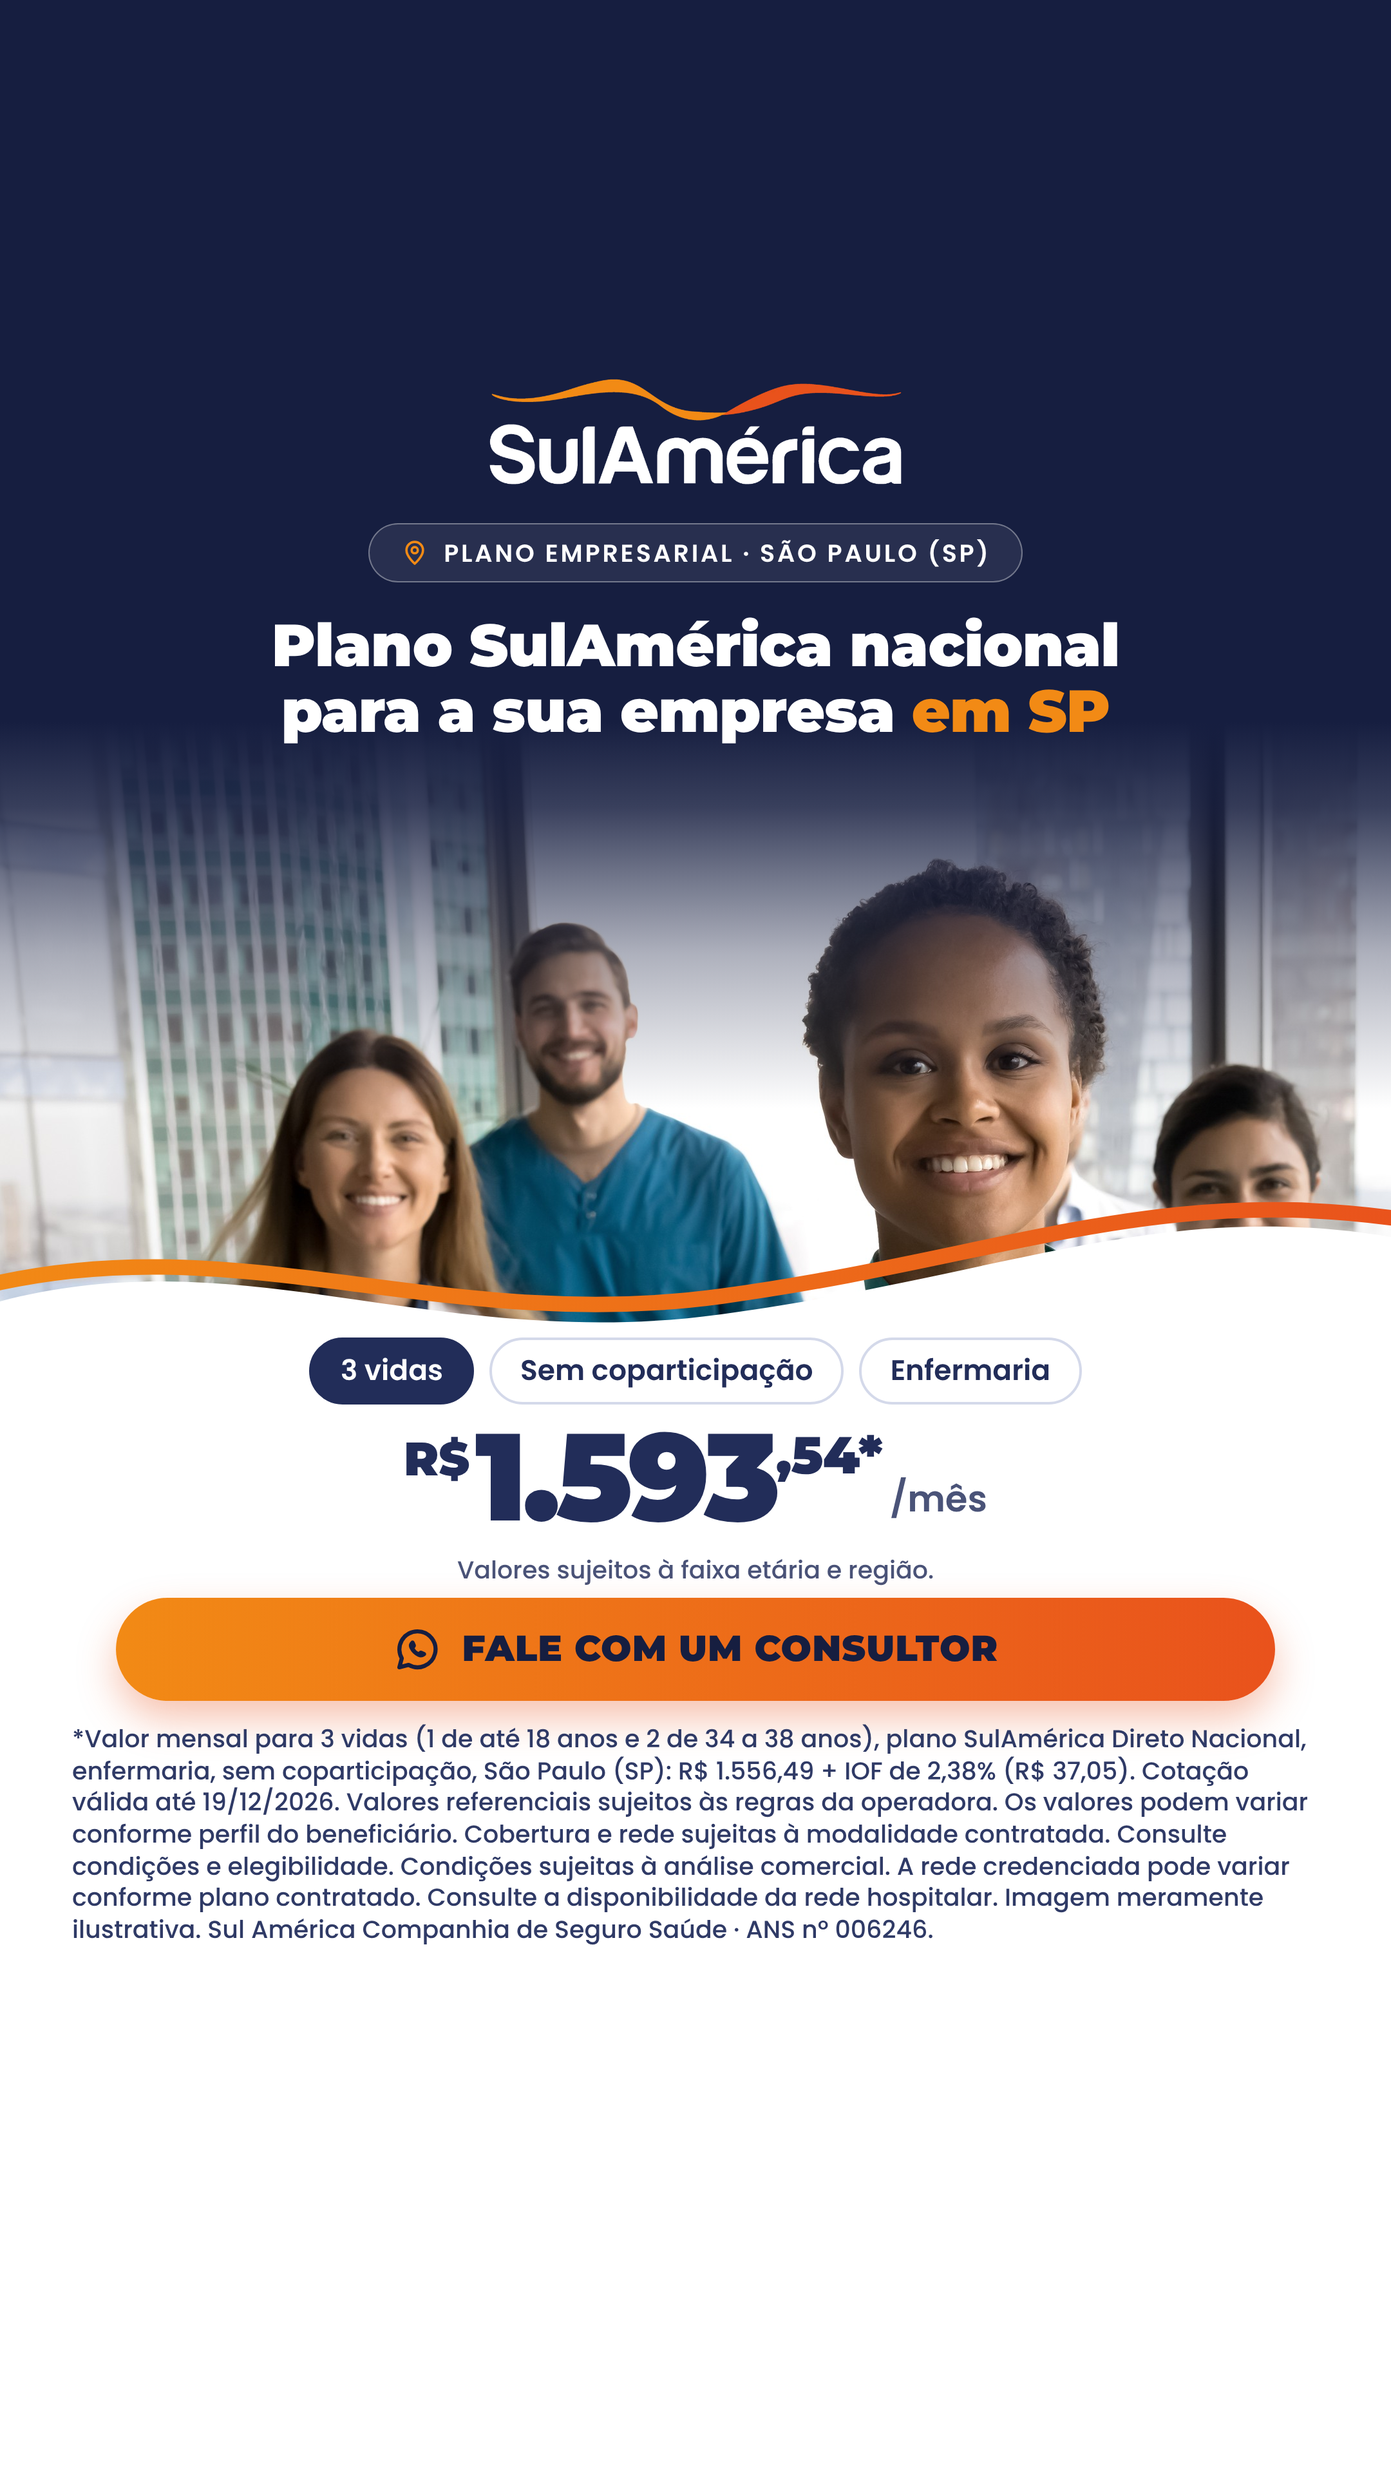
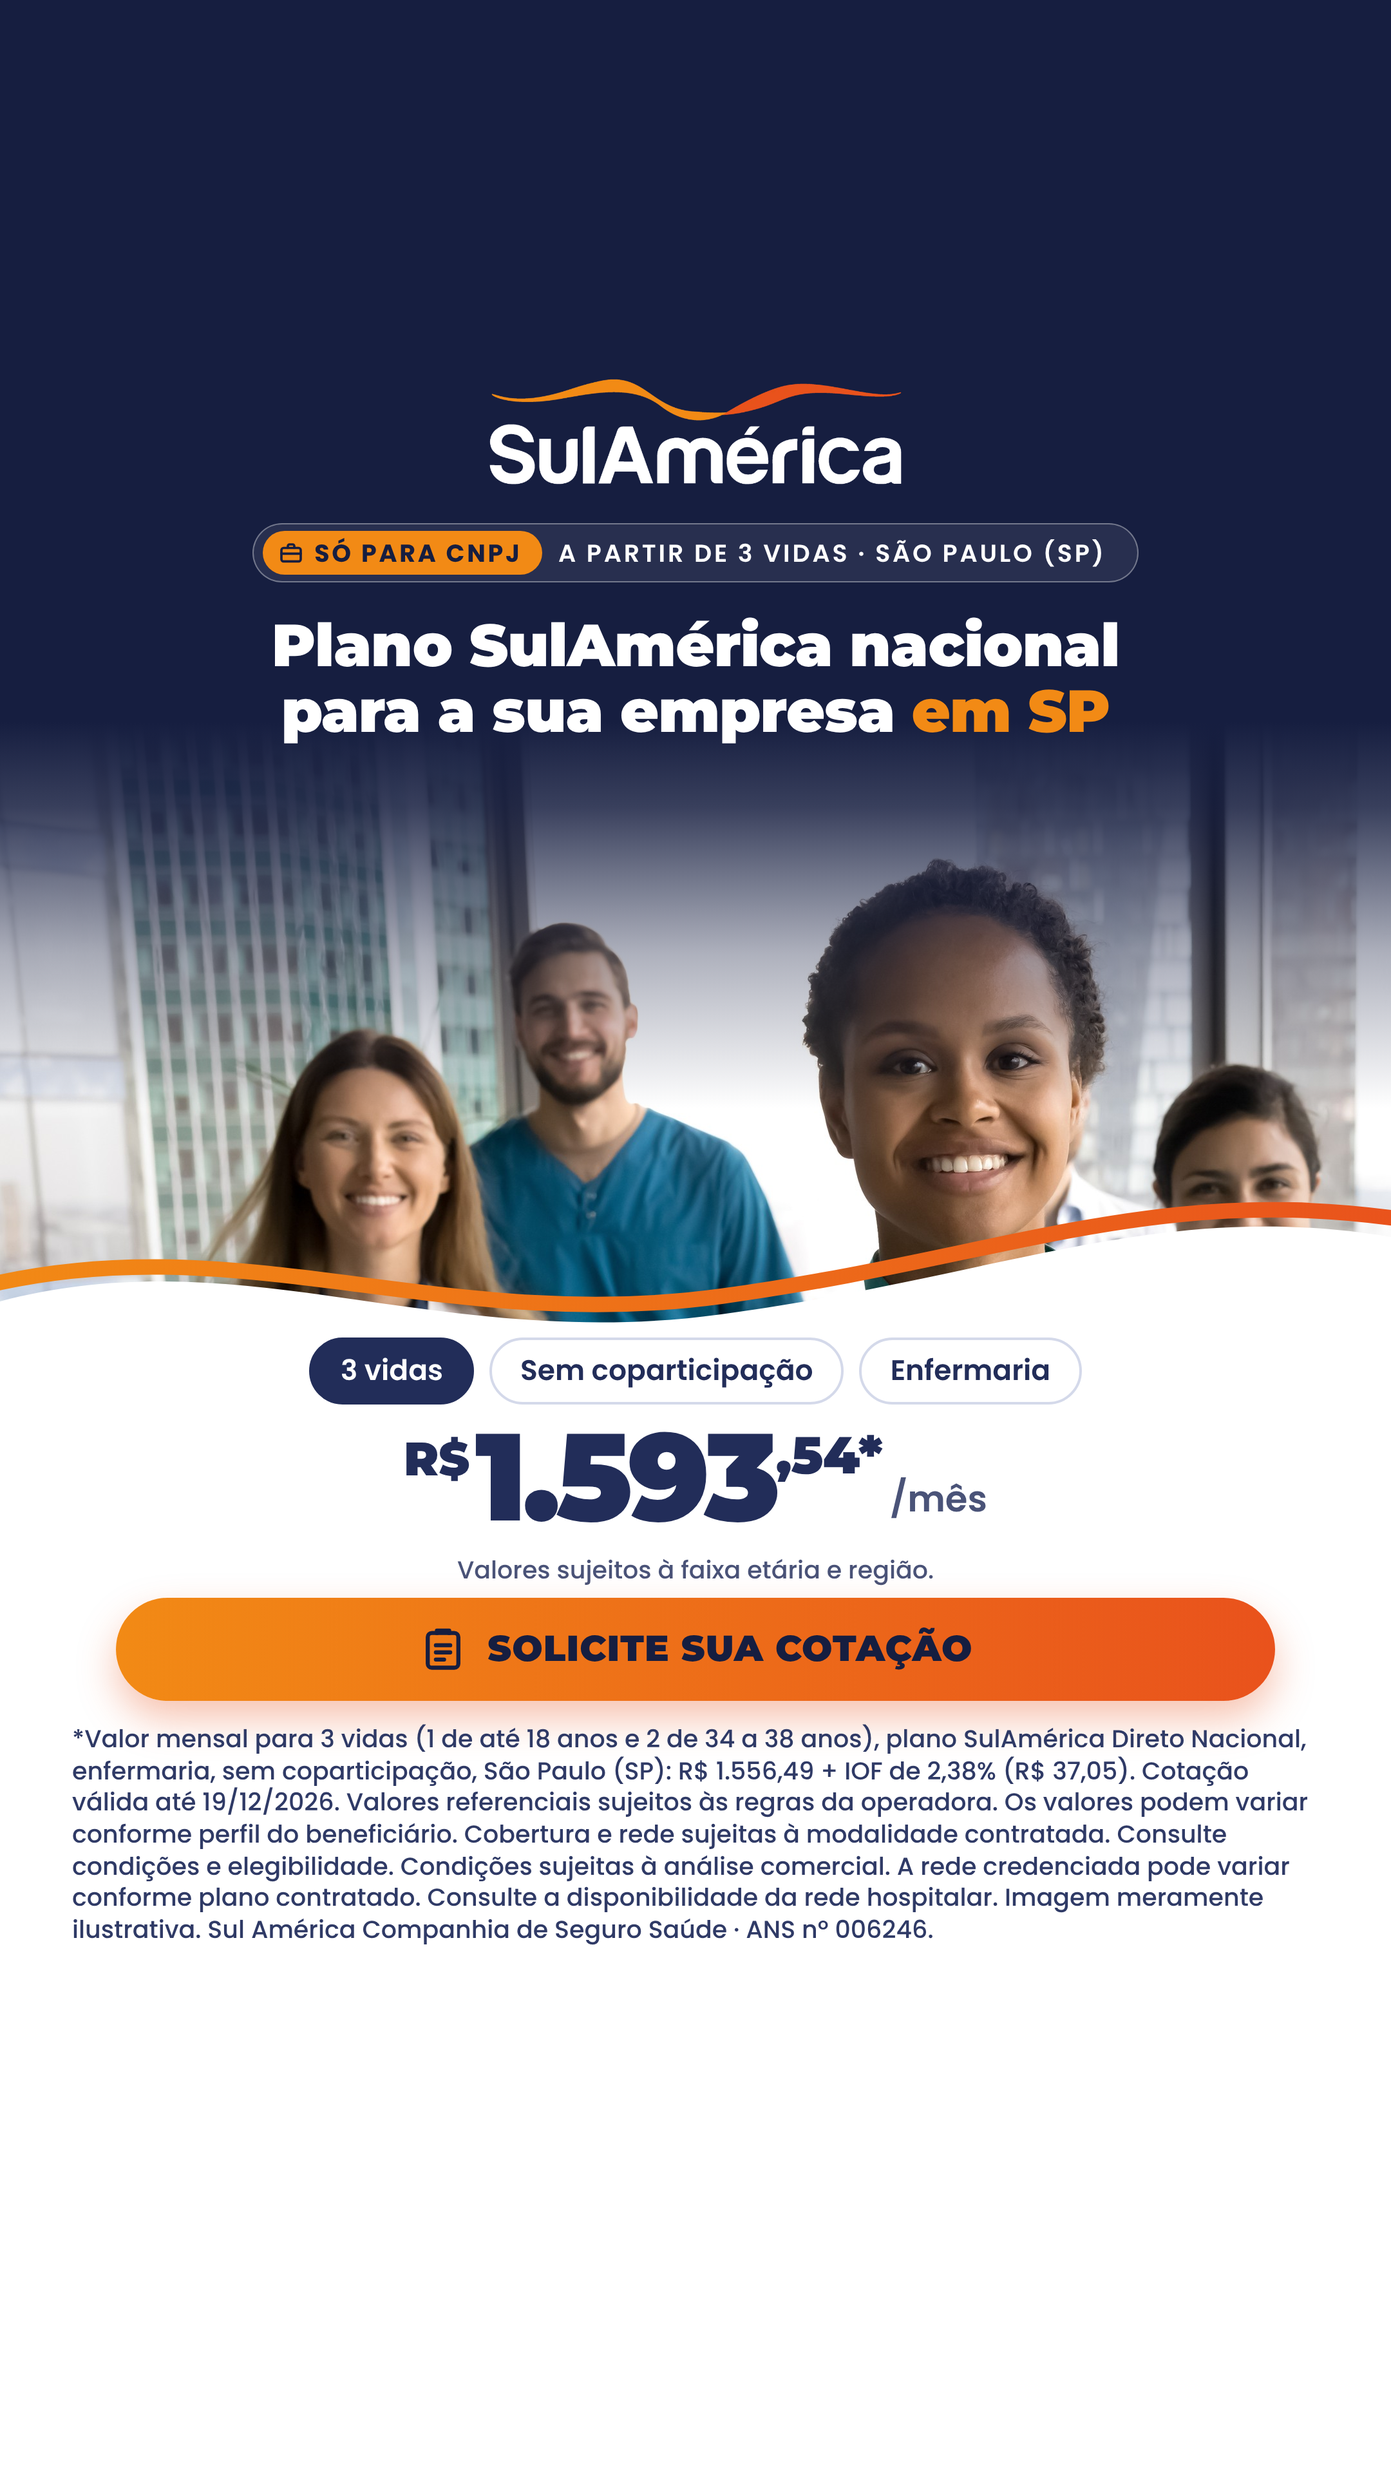
Cotações 3 vidas SP: requisito do formulário (CNPJ + 3 vidas) e botão de cotação
Os anúncios de plano de saúde vão para formulário com trava (só CNPJ, a partir de 3 vidas):
- etiqueta do topo com selo "Só para CNPJ" + "a partir de 3 vidas · São Paulo (SP)"
- botão "Solicite sua cotação" com ícone de formulário (sai o "fale com um consultor")
- Figma atualizado nas 9 peças; regra registrada no CLAUDE.md para os próximos criativos

Claude-Session: https://claude.ai/code/session_01GQmGjzcDcCg5ZjPiHt6SBp

diff --git a/criativos/cotacoes-3-vidas-sp/pecas/a1-amil-recibo.html b/criativos/cotacoes-3-vidas-sp/pecas/a1-amil-recibo.html
@@ -12,7 +12,6 @@
   .logo { position: absolute; left: 425px; top: 300px; width: 230px; color: #fff; }
   .chip { position: absolute; left: 0; right: 0; margin: 0 auto; width: max-content; top: 404px; height: 46px; padding: 0 24px;
     font-size: 19px; color: #fff; background: rgba(255,255,255,.12); border: 1.5px solid rgba(255,255,255,.35); }
-  .chip .ponto { background: var(--verde); }
   .h1 { position: absolute; left: 0; right: 0; top: 474px; text-align: center; font-family: 'Gabarito'; font-weight: 900;
     font-size: 66px; line-height: 1; letter-spacing: -.01em; }
   .h2 { position: absolute; left: 0; right: 0; top: 548px; text-align: center; font-family: 'Gabarito'; font-weight: 700;
@@ -47,7 +46,7 @@
   </svg>
 
   <div class="logo" data-marca="amil"></div>
-  <p class="chip"><i class="ponto"></i>Plano empresarial · São Paulo (SP)</p>
+  <p class="chip"><span class="req"><span data-icone="maleta"></span>Só para CNPJ</span>A partir de 3 vidas · São Paulo (SP)</p>
   <h1 class="h1">Plano Amil para 3 vidas</h1>
   <p class="h2">com a 1ª e a 2ª mensalidade pela metade</p>
 
@@ -73,7 +72,7 @@
     </div>
   </div>
 
-  <div class="cta"><span data-icone="conversa"></span>Fale com um consultor</div>
+  <div class="cta"><span data-icone="formulario"></span>Solicite sua cotação</div>
   <p class="legal"></p>
 
   <script type="module">

diff --git a/criativos/cotacoes-3-vidas-sp/pecas/base.js b/criativos/cotacoes-3-vidas-sp/pecas/base.js
@@ -51,6 +51,8 @@ export const COTACAO = {
 
 const traco = 'fill="none" stroke="currentColor" stroke-linecap="round" stroke-linejoin="round"';
 export const ICONES = {
+  formulario: `<svg viewBox="0 0 24 24" ${traco} stroke-width="2"><rect x="4.5" y="4" width="15" height="17" rx="2"/><path d="M9 4V2.8h6V4"/><path d="M8.5 10h7M8.5 13.5h7M8.5 17h4"/></svg>`,
+  maleta: `<svg viewBox="0 0 24 24" ${traco} stroke-width="2.2"><rect x="3" y="7.5" width="18" height="12.5" rx="2"/><path d="M9 7.5V5.8A1.6 1.6 0 0 1 10.6 4.2h2.8A1.6 1.6 0 0 1 15 5.8v1.7M3 12.8h18"/></svg>`,
   conversa: `<svg viewBox="0 0 24 24" ${traco} stroke-width="2"><path d="M12 3.2a8.8 8.8 0 0 0-7.6 13.2L3.2 20.8l4.5-1.2A8.8 8.8 0 1 0 12 3.2z"/><path d="M9.1 8.6c.3-.6.8-.6 1.1 0l.6 1.4c.1.3 0 .6-.2.8l-.5.5c.5 1.2 1.4 2.1 2.6 2.6l.5-.5c.2-.2.5-.3.8-.2l1.4.6c.6.3.6.8 0 1.1-.9.6-1.9.7-3 .2a8 8 0 0 1-3.7-3.7c-.5-1.1-.4-2.1.4-2.8z" fill="currentColor" stroke-width="1"/></svg>`,
   check: `<svg viewBox="0 0 24 24" ${traco} stroke-width="3"><path d="M5 12.5l4.5 4.5L19 7.5"/></svg>`,
   hospital: `<svg viewBox="0 0 24 24" ${traco} stroke-width="1.9"><path d="M4 21V6.5A1.5 1.5 0 0 1 5.5 5h13A1.5 1.5 0 0 1 20 6.5V21M2.5 21h19"/><path d="M12 8.2v5M9.5 10.7h5" stroke-width="2.2"/><path d="M10 21v-4h4v4"/></svg>`,

diff --git a/criativos/cotacoes-3-vidas-sp/pecas/base.css b/criativos/cotacoes-3-vidas-sp/pecas/base.css
@@ -43,6 +43,13 @@ body { position: relative; font-family: 'Poppins', sans-serif; color: #fff;
 .chip { display: inline-flex; align-items: center; gap: 12px; border-radius: 999px; white-space: nowrap;
   font-weight: 600; text-transform: uppercase; letter-spacing: .1em; line-height: 1; }
 .chip .ponto { display: block; width: 10px; height: 10px; border-radius: 50%; }
+/* Requisito do formulário (com trava): só CNPJ, a partir de 3 vidas. Fica colado no começo da etiqueta. */
+.chip .req { display: inline-flex; align-items: center; gap: 8px; height: 34px; margin-left: -17px; padding: 0 16px 0 12px;
+  border-radius: 999px; font-weight: 700; }
+.chip .req .icone { width: 20px; height: 20px; color: inherit; }
+[data-operadora=amil] .chip .req { background: var(--verde); color: #0f0d59; }
+[data-operadora=bradesco] .chip .req { background: #fff; color: var(--brad-esc); }
+[data-operadora=sula] .chip .req { background: var(--laranja); color: var(--sula-esc); }
 
 /* Itens da oferta em pílulas */
 .pilulas { display: flex; flex-wrap: wrap; justify-content: center; gap: 12px; }

diff --git a/criativos/cotacoes-3-vidas-sp/pecas/s1-sula-preco.html b/criativos/cotacoes-3-vidas-sp/pecas/s1-sula-preco.html
@@ -41,7 +41,7 @@
   </svg>
 
   <div class="logo" data-marca="sula-branco"></div>
-  <p class="chip"><span data-icone="pin"></span>Plano empresarial · São Paulo (SP)</p>
+  <p class="chip"><span class="req"><span data-icone="maleta"></span>Só para CNPJ</span>A partir de 3 vidas · São Paulo (SP)</p>
   <h1 class="h1">3 vidas, plano nacional,<br><em>sem coparticipação.</em></h1>
 
   <p class="preco"><span class="rs">R$</span>1.593<span class="cent">,54*</span></p>
@@ -53,7 +53,7 @@
   <p class="pilulas"><span>SulAmérica Direto Nacional</span><span>Enfermaria</span></p>
   <p class="comp"><b>1 vida até 18 anos + 2 vidas de 34 a 38 anos</b><br>R$ 1.556,49 + IOF</p>
 
-  <div class="cta"><span data-icone="conversa"></span>Fale com um consultor</div>
+  <div class="cta"><span data-icone="formulario"></span>Solicite sua cotação</div>
   <p class="legal"></p>
 
   <script type="module">

diff --git a/criativos/cotacoes-3-vidas-sp/pecas/b1-bradesco-hospital.html b/criativos/cotacoes-3-vidas-sp/pecas/b1-bradesco-hospital.html
@@ -41,7 +41,7 @@
   </svg>
 
   <div class="logo" data-marca="bradesco"></div>
-  <p class="chip"><span data-icone="pin"></span>Plano empresarial · São Paulo (SP)</p>
+  <p class="chip"><span class="req"><span data-icone="maleta"></span>Só para CNPJ</span>A partir de 3 vidas · São Paulo (SP)</p>
   <h1 class="h1">Plano de saúde para 3 vidas,<br><em>sem coparticipação</em></h1>
 
   <div class="moldura"><img src="../assets/fotos/cortes/b1-passarela-faixa.jpg" alt=""></div>
@@ -51,7 +51,7 @@
   <p class="preco"><span class="rs">R$</span>2.362<span class="cent">,01*</span><span class="mes">/mês</span></p>
   <p class="nota-preco"></p>
 
-  <div class="cta"><span data-icone="conversa"></span>Fale com um consultor</div>
+  <div class="cta"><span data-icone="formulario"></span>Solicite sua cotação</div>
   <p class="legal"></p>
 
   <script type="module">

diff --git a/criativos/cotacoes-3-vidas-sp/pecas/s2-sula-hospital.html b/criativos/cotacoes-3-vidas-sp/pecas/s2-sula-hospital.html
@@ -39,14 +39,14 @@
   </svg>
 
   <div class="logo" data-marca="sula-branco"></div>
-  <p class="chip"><span data-icone="pin"></span>Plano empresarial · São Paulo (SP)</p>
+  <p class="chip"><span class="req"><span data-icone="maleta"></span>Só para CNPJ</span>A partir de 3 vidas · São Paulo (SP)</p>
   <h1 class="h1">Plano SulAmérica nacional<br>para a sua empresa <em>em SP</em></h1>
 
   <p class="pilulas"><span>3 vidas</span><span>Sem coparticipação</span><span>Enfermaria</span></p>
   <p class="preco"><span class="rs">R$</span>1.593<span class="cent">,54*</span><span class="mes">/mês</span></p>
   <p class="nota-preco"></p>
 
-  <div class="cta"><span data-icone="conversa"></span>Fale com um consultor</div>
+  <div class="cta"><span data-icone="formulario"></span>Solicite sua cotação</div>
   <p class="legal"></p>
 
   <script type="module">

diff --git a/criativos/cotacoes-3-vidas-sp/pecas/a2-amil-hospital.html b/criativos/cotacoes-3-vidas-sp/pecas/a2-amil-hospital.html
@@ -37,7 +37,7 @@
   <div class="veu-base"></div>
 
   <div class="logo" data-marca="amil"></div>
-  <p class="chip"><span data-icone="pin"></span>Plano empresarial · São Paulo (SP)</p>
+  <p class="chip"><span class="req"><span data-icone="maleta"></span>Só para CNPJ</span>A partir de 3 vidas · São Paulo (SP)</p>
 
   <h1 class="h1">Hospital, consulta e exame<br>com a Amil, <em>no Brasil todo.</em></h1>
   <p class="sub">Prata Nacional · enfermaria · coparticipação só em terapias</p>
@@ -47,7 +47,7 @@
   <p class="depois">depois, <b>R$ 1.445,99</b> por mês</p>
   <p class="nota-preco"></p>
 
-  <div class="cta"><span data-icone="conversa"></span>Fale com um consultor</div>
+  <div class="cta"><span data-icone="formulario"></span>Solicite sua cotação</div>
   <p class="legal"></p>
 
   <script type="module">

diff --git a/criativos/cotacoes-3-vidas-sp/pecas/b2-bradesco-extrato.html b/criativos/cotacoes-3-vidas-sp/pecas/b2-bradesco-extrato.html
@@ -40,7 +40,7 @@
 </head>
 <body data-operadora="bradesco">
   <div class="logo" data-marca="bradesco"></div>
-  <p class="chip"><span data-icone="pin"></span>Plano empresarial · São Paulo (SP)</p>
+  <p class="chip"><span class="req"><span data-icone="maleta"></span>Só para CNPJ</span>A partir de 3 vidas · São Paulo (SP)</p>
   <h1 class="h1">Usou o plano?</h1>
   <p class="h2">Não paga a mais por isso.</p>
 
@@ -64,7 +64,7 @@
   <p class="preco"><span class="rs">R$</span>2.362<span class="cent">,01*</span><span class="mes">/mês</span></p>
   <p class="nota-preco"></p>
 
-  <div class="cta"><span data-icone="conversa"></span>Fale com um consultor</div>
+  <div class="cta"><span data-icone="formulario"></span>Solicite sua cotação</div>
   <p class="legal"></p>
 
   <script type="module">

diff --git a/criativos/cotacoes-3-vidas-sp/pecas/s3-sula-conta.html b/criativos/cotacoes-3-vidas-sp/pecas/s3-sula-conta.html
@@ -41,7 +41,7 @@
   <div class="veu"></div>
 
   <div class="logo" data-marca="sula-branco"></div>
-  <p class="chip"><span data-icone="pin"></span>Plano empresarial · São Paulo (SP)</p>
+  <p class="chip"><span class="req"><span data-icone="maleta"></span>Só para CNPJ</span>A partir de 3 vidas · São Paulo (SP)</p>
   <h1 class="h1">Quanto custa a SulAmérica<br><em>para 3 vidas em SP?</em></h1>
 
   <div class="conta">
@@ -60,7 +60,7 @@
 
   <p class="pilulas"><span>Direto Nacional</span><span>Enfermaria</span><span>Válida até 19/12</span></p>
 
-  <div class="cta"><span data-icone="conversa"></span>Fale com um consultor</div>
+  <div class="cta"><span data-icone="formulario"></span>Solicite sua cotação</div>
   <p class="legal"></p>
 
   <script type="module">

diff --git a/criativos/cotacoes-3-vidas-sp/pecas/a3-amil-tabela.html b/criativos/cotacoes-3-vidas-sp/pecas/a3-amil-tabela.html
@@ -48,7 +48,7 @@
   </svg>
 
   <div class="logo" data-marca="amil"></div>
-  <p class="chip"><span data-icone="pin"></span>Plano empresarial · São Paulo (SP)</p>
+  <p class="chip"><span class="req"><span data-icone="maleta"></span>Só para CNPJ</span>A partir de 3 vidas · São Paulo (SP)</p>
   <h1 class="h1">Quanto custa a Amil<br><em>na sua idade?</em></h1>
   <p class="mao dica">valor por pessoa, por mês ↓</p>
 
@@ -59,7 +59,7 @@
     <div class="dir"><span>depois, <b>R$ 1.445,99</b>/mês</span><p class="nota-preco"></p></div>
   </div>
 
-  <div class="cta"><span data-icone="conversa"></span>Calcule com um consultor</div>
+  <div class="cta"><span data-icone="formulario"></span>Solicite sua cotação</div>
   <p class="legal"></p>
 
   <script type="module">

diff --git a/criativos/cotacoes-3-vidas-sp/pecas/b3-bradesco-paulista.html b/criativos/cotacoes-3-vidas-sp/pecas/b3-bradesco-paulista.html
@@ -41,7 +41,7 @@
   <div class="veu-base"></div>
 
   <div class="logo" data-marca="bradesco"></div>
-  <p class="chip"><span data-icone="grupo"></span>Sócios e diretores · 3 vidas</p>
+  <p class="chip"><span class="req"><span data-icone="maleta"></span>Só para CNPJ</span>Sócios e diretores · a partir de 3 vidas</p>
   <h1 class="h1">Sua empresa é<br>de <em>São Paulo?</em></h1>
 
   <div class="cartao">
@@ -51,7 +51,7 @@
     <p class="nota-preco"></p>
   </div>
 
-  <div class="cta"><span data-icone="conversa"></span>Fale com um consultor</div>
+  <div class="cta"><span data-icone="formulario"></span>Solicite sua cotação</div>
   <p class="legal"></p>
 
   <script type="module">

diff --git a/CLAUDE.md b/CLAUDE.md
@@ -50,6 +50,20 @@ Usar o texto **exatamente** como está (sem reescrever, encurtar ou trocar palav
   sem cobrir as legendas.
 - Conferir a regra antes de renderizar e citar no README do projeto quais observações entraram.
 
+### Destino dos anúncios: formulário com trava (CNPJ + 3 vidas ou mais)
+
+Pedido do cliente em 06/11/2026. Todos os anúncios de plano de saúde levam para o **formulário de cadastro do
+Meta**. Esse formulário tem trava e só aceita **quem tem CNPJ e 3 vidas ou mais**. Por isso:
+
+- **Criativo:** o requisito aparece logo no começo, perto do logo, para filtrar quem não pode contratar. Exemplo:
+  etiqueta "Só para CNPJ · a partir de 3 vidas".
+- **Botão do criativo:** fala de cotação ou formulário ("Solicite sua cotação"). Nunca WhatsApp, conversa ou
+  "fale com um consultor", e nada de ícone de balão de conversa.
+- **Copy do Meta:** botão "Obter cotação" (ou "Cadastre-se"). Nunca "Enviar mensagem" nem "chame no WhatsApp".
+  O texto cita CNPJ e "a partir de 3 vidas".
+- **Público:** empresas e empreendedores com CNPJ. Quando falar de família, deixar claro que a contratação é pelo
+  CNPJ.
+
 ### Referências visuais (inspiração obrigatória)
 
 Antes de criar qualquer criativo de plano de saúde (estático ou vídeo), abrir
